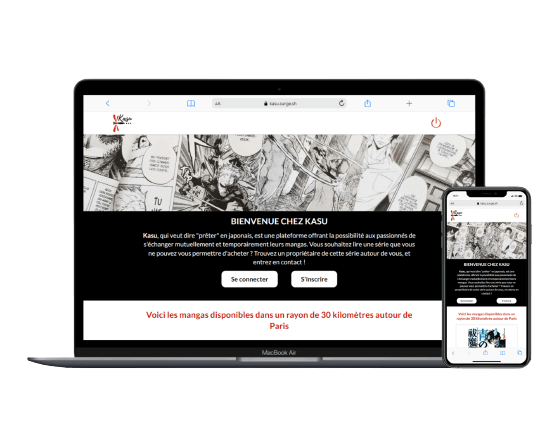
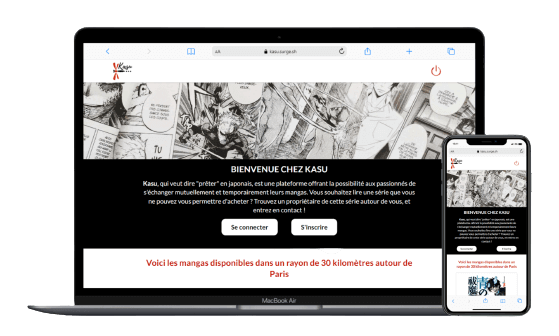
resizing picture

diff --git a/css/prefixed/style.css b/css/prefixed/style.css
@@ -240,7 +240,7 @@ header .span__rocket .fa-rocket {
     font-size: 1.5rem;
   }
 }
-@media screen and (min-width: 768px) {
+@media screen and (min-width: 1200px) {
   .section__presentation .presentation__section__title {
     padding-left: 2rem;
     font-size: 2rem;
@@ -259,18 +259,18 @@ header .span__rocket .fa-rocket {
   list-style-type: none;
   margin: 0 auto;
   padding: 0;
-  width: 80%;
 }
 .section__presentation .presentation__skills .presentation__skills__list .presentation__skills_element {
   position: relative;
   display: inline-block;
+  background: #fafafa1a;
   padding: 10px 15px;
   border-radius: 3px;
   margin: 5px;
 }
 .section__presentation .presentation__skills .presentation__skills__list .presentation__skills_element .skill-favorite {
   position: absolute;
-  color: #f1c40f;
+  color: #f1c40fbb;
   font-size: 20px;
   top: calc(50% - 10px);
   left: -20px;
@@ -384,12 +384,12 @@ header .span__rocket .fa-rocket {
   -ms-flex-wrap: wrap;
       flex-wrap: wrap;
   text-align: center;
-  padding-bottom: 1rem;
+  padding: 1rem 0 1rem 1.5rem;
   -webkit-box-align: center;
       -ms-flex-align: center;
           align-items: center;
 }
-@media screen and (min-width: 768px) {
+@media screen and (min-width: 1200px) {
   .project__element__container .project__element .project__element__title {
     text-align: left;
     -webkit-box-orient: horizontal;
@@ -401,7 +401,7 @@ header .span__rocket .fa-rocket {
             justify-content: space-between;
   }
 }
-.project__element__container .project__element .project__element__title h3, .project__element__container .project__element .project__element__title h4 {
+.project__element__container .project__element .project__element__title .project__element__title_text {
   padding-bottom: 0.8rem;
 }
 .project__element__container .project__element .project__element__title .span__plus {
@@ -521,4 +521,4 @@ footer {
   padding: 20px 10px;
 }
 
[2 lines of base64/hex data omitted]

diff --git a/index.html b/index.html
@@ -164,7 +164,7 @@
 					<div class="project__element">
 						<img src="images/kasu.png" alt="">
 						<div class="project__element__title">
-							<div>
+							<div class="project__element__title_text">
 								<h3>Kasu</h3>
 								<h4>Plateforme d'échange de mangas</h4>
 							</div>
@@ -190,11 +190,39 @@
 							</div>
 						</div>
 					</div>
-
+					<div class="project__element">
+						<img src="images/kaamelott.png" alt="">
+						<div class="project__element__title">
+							<div class="project__element__title_text">
+								<h3>Quizz Kaamelott</h3>
+								<h4>Quizz de citations issues de la série</h4>
+							</div>
+							<span class="span__plus">
+								<i class="fas fa-plus"></i>
+							</span>
+						</div>
+						<div class="project__element__infos section__paragraph project__element__infos--ishidden">
+							<p>Lorem, ipsum dolor sit amet consectetur adipisicing elit. Dolores ipsa sapiente quod a laudantium porro ipsum error voluptatibus, placeat doloremque.</p>
+							<div class="project__element__links">
+								<a class="link--hover" href="#">
+									<span class="link__icon--first" data-hover="Visiter">Visiter</span>
+									<span class="link__icon--second" data-hover="Le site">
+										Le site
+									</span>
+								</a>
+								<a class="link--hover" href="#">
+									<span class="link__icon--second" data-hover="Code">Code</span>
+									<span class="link__icon--first" data-hover="Source">
+										Source
+									</span>
+								</a>
+							</div>
+						</div>
+					</div>
 					<div class="project__element">
 						<img src="images/yokai.png" alt="">
 						<div class="project__element__title">
-							<div>
+							<div class="project__element__title_text">
 								<h3>Yōkai on the watch</h3>
 								<h4>Blog sur le thème des yōkai</h4>
 							</div>
@@ -223,7 +251,7 @@
 					<div class="project__element">
 						<img src="images/endangered.png" alt="">
 						<div class="project__element__title">
-							<div>
+							<div class="project__element__title_text">
 								<h3>Endangered Species</h3>
 								<h4>Appli sur les espèces menacées</h4>
 							</div>
@@ -249,35 +277,7 @@
 							</div>
 						</div>
 					</div>
-					<div class="project__element">
-						<img src="images/kaamelott.png" alt="">
-						<div class="project__element__title">
-							<div>
-								<h3>Quizz Kaamelott</h3>
-								<h4>Quizz de citations issues de la série</h4>
-							</div>
-							<span class="span__plus">
-								<i class="fas fa-plus"></i>
-							</span>
-						</div>
-						<div class="project__element__infos section__paragraph project__element__infos--ishidden">
-							<p>Lorem, ipsum dolor sit amet consectetur adipisicing elit. Dolores ipsa sapiente quod a laudantium porro ipsum error voluptatibus, placeat doloremque.</p>
-							<div class="project__element__links">
-								<a class="link--hover" href="#">
-									<span class="link__icon--first" data-hover="Visiter">Visiter</span>
-									<span class="link__icon--second" data-hover="Le site">
-										Le site
-									</span>
-								</a>
-								<a class="link--hover" href="#">
-									<span class="link__icon--second" data-hover="Code">Code</span>
-									<span class="link__icon--first" data-hover="Source">
-										Source
-									</span>
-								</a>
-							</div>
-						</div>
-					</div>
+					
 				</div>
 			</section>
 			<section id="contact" class="section section__contact">

diff --git a/css/style.scss b/css/style.scss
@@ -236,6 +236,7 @@ header {
     .presentation__section__title{
         font-size: 1.3rem;
         padding-left:0.8rem;
+
         @include larger-mobile {
             padding-left:1rem;
         }
@@ -243,7 +244,7 @@ header {
             padding-left:1rem;
             font-size: 1.5rem;
         }
-        @include tablet {
+        @include desktop {
             padding-left:2rem;
             font-size: 2rem;
         }
@@ -384,27 +385,27 @@ header {
             flex-direction: column;
             flex-wrap: wrap;
             text-align: center;
-            padding-bottom: 1rem;
+            padding:1rem 0 1rem 1.5rem;
             align-items:center;
-            //
             
-            @include tablet{
+            
+            @include desktop{
                 text-align: left;
                 //width:80%;
                 flex-direction: row;
                 justify-content: space-between;
             }
-            h3,h4 {
+          
+            .project__element__title_text{
                 padding-bottom: 0.8rem;
-                
+              
             }
-    
             .span__plus {
                 display: flex;
                 margin: 0  auto;
                 width: 2rem;
                 align-items: center;
-    
+              
                 .fa-plus {
                     font-size: 2.5rem;
                     color: $main-color;

diff --git a/css/style.css b/css/style.css
@@ -201,7 +201,7 @@ header .span__rocket .fa-rocket {
     font-size: 1.5rem;
   }
 }
-@media screen and (min-width: 768px) {
+@media screen and (min-width: 1200px) {
   .section__presentation .presentation__section__title {
     padding-left: 2rem;
     font-size: 2rem;
@@ -323,17 +323,17 @@ header .span__rocket .fa-rocket {
   flex-direction: column;
   flex-wrap: wrap;
   text-align: center;
-  padding-bottom: 1rem;
+  padding: 1rem 0 1rem 1.5rem;
   align-items: center;
 }
-@media screen and (min-width: 768px) {
+@media screen and (min-width: 1200px) {
   .project__element__container .project__element .project__element__title {
     text-align: left;
     flex-direction: row;
     justify-content: space-between;
   }
 }
-.project__element__container .project__element .project__element__title h3, .project__element__container .project__element .project__element__title h4 {
+.project__element__container .project__element .project__element__title .project__element__title_text {
   padding-bottom: 0.8rem;
 }
 .project__element__container .project__element .project__element__title .span__plus {
